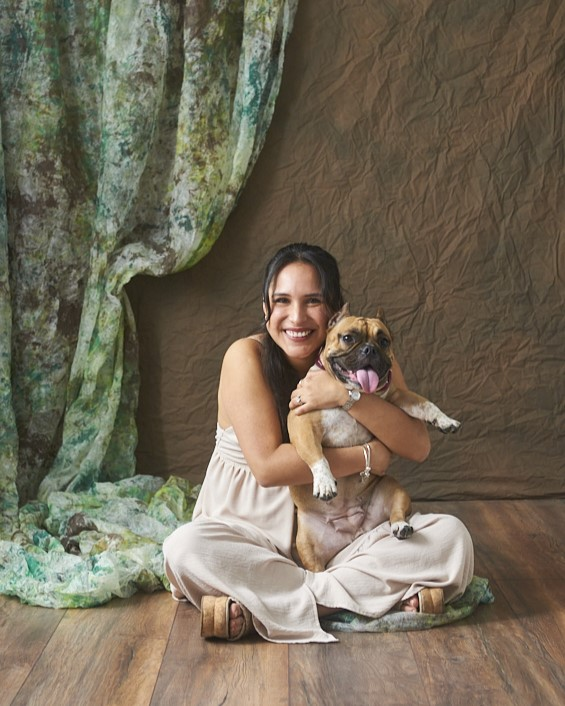
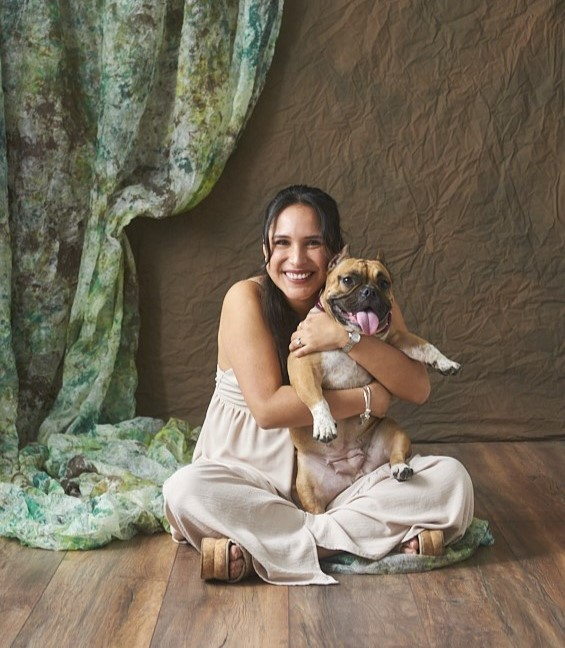
💄 UI:  Improve more ui

diff --git a/src/components/AboutMe/AboutMe.styles.tsx b/src/components/AboutMe/AboutMe.styles.tsx
@@ -1,5 +1,4 @@
-import styled from "@emotion/styled";
-import { css } from '@emotion/react';
+import styled from '@emotion/styled';
 
 // @Styles
 import { CardContainer } from '@styles/Styles';
@@ -11,7 +10,7 @@ export const AboutMeContainer = styled('div')`
   display: grid;
   gap: ${(props) => props.theme.spacing(2)};
   grid-template-columns: 1fr 1fr;
-  grid-template-rows: 220px 160px 220px 250px auto;
+  grid-template-rows: auto;
   grid-template-areas:
     'image1 text1'
     'image1 image2'
@@ -20,19 +19,6 @@ export const AboutMeContainer = styled('div')`
     'text4 text4';
 
   > div {
-    opacity: 0;
-    animation: ${(props) =>
-      css`
-        ${props.theme.animations.enterCards} 0.8s ease-in-out 0.2s forwards
-      `};
-    /* :hover {
-      animation: ${(props) =>
-      css`
-        ${props.theme.animations.hoverCard} 0.3s ease-in-out forwards, ${props
-          .theme.animations.enterCards} 0s;
-      `};
-      opacity: 1;
-    } */
     transition: transform 1s ease;
     :nth-of-type(1) {
       grid-area: image1;
@@ -55,47 +41,35 @@ export const AboutMeContainer = styled('div')`
     :nth-of-type(7) {
       grid-area: text4;
     }
-
-    /* :hover {
-      animation: ${(props) =>
-      css`
-        ${props.theme.animations.hoverCard} 0.3s ease-in-out forwards
-      `};
-    } */
   }
 
-  ${(props) =>
-    props.theme.breakpoints.between(Breakpoint.tablet, Breakpoint.laptopS)} {
-    grid-template-rows: 260px 80px 260px 340px auto;
-  }
-
-  ${(props) =>
-    props.theme.breakpoints.between(Breakpoint.tabletS, Breakpoint.tablet)} {
+  ${(props) => props.theme.breakpoints.down(Breakpoint.laptopS)} {
     grid-template-areas:
       'image1 text1'
-      'image1 image2'
       'text2 image2'
       'image3 text3'
       'text4 text4';
-    grid-template-rows: auto auto auto 300px auto;
   }
 
   ${(props) => props.theme.breakpoints.down(Breakpoint.tabletS)} {
-    grid-template-areas:
-      'text1 text2'
-      'image1 image2'
-      'image3 text3'
-      'text4 text4';
-    grid-template-rows: auto auto auto auto;
     gap: ${(props) => props.theme.spacing(1)};
   }
 `;
 
-export const AboutMeImg = styled('img')`
-  width: 100%;
+export const AboutMeImg = styled(CardContainer)<{ src: string }>`
+  background-image: ${(props) => `url(${props.src})`};
+  background-position: center;
+  background-size: cover;
   height: 100%;
-  object-fit: cover;
-  overflow-y: hidden;
+  min-height: 350px;
+  width: 100%;
+
+  ${(props) => props.theme.breakpoints.down(Breakpoint.laptopS)} {
+    min-height: 285px;
+  }
+  ${(props) => props.theme.breakpoints.down(Breakpoint.mobileL)} {
+    min-height: 220px;
+  }
 `;
 
 export const AboutMeCardContainer = styled(CardContainer)`
@@ -105,7 +79,6 @@ export const AboutMeCardContainer = styled(CardContainer)`
     padding: 0;
     width: 24px;
     height: 24px;
-    fill: ${(props) => props.theme.palette.accent};
   }
 `;
 

diff --git a/src/components/AboutMe/AboutMe.tsx b/src/components/AboutMe/AboutMe.tsx
@@ -3,11 +3,11 @@ import AboutMeCard from './AboutMeCard';
 import { CardContainer } from '@styles/Styles';
 
 // @Icons
-import { ReactIcon } from '@icons';
+import SVGIcon, { CodeIcon, GamingIcon, ReactIcon, StudyIcon } from '@icons';
 
 // @Images
-import DogPhoto from '@images/about-me-dog.jpg';
 import ArequipaPhoto from '@images/about-me-arequipa.jpg';
+import DogPhoto from '@images/about-me-dog.jpg';
 import IcaPhoto from '@images/about-me-ica.jpg';
 
 // @Styles
@@ -16,11 +16,9 @@ import { AboutMeContainer, AboutMeImg } from './AboutMe.styles';
 const AboutMe = () => {
   return (
     <AboutMeContainer>
-      <CardContainer noPadding>
-        <AboutMeImg src={DogPhoto} />
-      </CardContainer>
+      <AboutMeImg src={DogPhoto} />
       <AboutMeCard
-        icon={<ReactIcon />}
+        icon={<SVGIcon icon={ReactIcon} fill="accent" />}
         description={[
           'Experience: 5 years',
           'Libraries / frameworks: React, Angular',
@@ -28,24 +26,20 @@ const AboutMe = () => {
         ]}
         title="Front-end"
       />
-      <CardContainer noPadding>
-        <AboutMeImg src={IcaPhoto} />
-      </CardContainer>
+      <AboutMeImg src={IcaPhoto} />
       <AboutMeCard
-        icon={<ReactIcon />}
+        icon={<SVGIcon icon={CodeIcon} stroke="accent" />}
         description="Redux, React Query, GraphQL, Storybook, Material UI, Jest, React Testing Library, Github, Azure, Jira, SonarQube"
         title="Tech Stack"
       />
-      <CardContainer noPadding>
-        <AboutMeImg src={ArequipaPhoto} />
-      </CardContainer>
+      <AboutMeImg src={ArequipaPhoto} />
       <AboutMeCard
-        icon={<ReactIcon />}
+        icon={<SVGIcon icon={GamingIcon} stroke="accent" />}
         description="I enjoy bartending as a hobbie and gaming in my free time. I also like exploring new destinations within Peru and abroad. And let's not forget my dog – she's a big part of my life!"
         title="Interests"
       />
       <AboutMeCard
-        icon={<ReactIcon />}
+        icon={<SVGIcon icon={StudyIcon} fill="accent" stroke="background" />}
         description={[
           'I began my studies in mechanical engineering in 2014 but soon discovered my passion for programming, so I switched to software engineering in 2016. I quickly started learning the fundamentals of front-end and proceeded to master Angular and React.',
           'Currently, I’m mainly working with React and Typescript, and during my free time, I’m exploring the exciting world of animations and SVG transformations.',

diff --git a/src/common/Icons/index.tsx b/src/common/Icons/index.tsx
@@ -1,7 +1,46 @@
-export { default as SunIcon } from './sun-icon.svg?react';
-export { default as MoonIcon } from './moon-icon.svg?react';
-export { default as ReactIcon } from './react-icon.svg?react';
+export { default as CodeIcon } from './code-icon.svg?react';
+export { default as GamingIcon } from './gaming-icon.svg?react';
+export { default as GithubIcon } from './github-icon.svg?react';
 export { default as LinkedinIcon } from './linkedin-icon.svg?react';
 export { default as LinkIcon } from './link-icon.svg?react';
 export { default as MailIcon } from './mail-icon.svg?react';
-export { default as GithubIcon } from './github-icon.svg?react';
+export { default as MoonIcon } from './moon-icon.svg?react';
+export { default as ReactIcon } from './react-icon.svg?react';
+export { default as StudyIcon } from './study-icon.svg?react';
+export { default as SunIcon } from './sun-icon.svg?react';
+
+import styled from '@emotion/styled';
+import { PaletteType } from '@theme/Theme.types';
+
+const SVGIconWrapper = styled.div<{
+  fill?: keyof PaletteType;
+  size?: string;
+  stroke?: keyof PaletteType;
+}>`
+  height: ${({ size }) => size};
+  width: ${({ size }) => size};
+
+  svg {
+    * {
+      fill: ${({ fill, theme }) => fill && theme.palette[fill]};
+      stroke: ${({ stroke, theme }) => stroke && theme.palette[stroke]};
+    }
+  }
+`;
+
+type SVGIconProps = {
+  icon: React.FunctionComponent;
+  size?: string;
+  fill?: keyof PaletteType;
+  stroke?: keyof PaletteType;
+};
+
+const SVGIcon: React.FC<SVGIconProps> = ({ icon: Icon, ...rest }) => {
+  return (
+    <SVGIconWrapper {...rest}>
+      <Icon />
+    </SVGIconWrapper>
+  );
+};
+
+export default SVGIcon;

diff --git a/src/components/Projects/ProjectItem.tsx b/src/components/Projects/ProjectItem.tsx
@@ -19,23 +19,18 @@ type ProjectItemProps = {
   technologies: readonly string[];
   image: string;
   urls: readonly { name: string; url: string }[];
-  reverse?: boolean;
 };
 
 const ProjectItem = ({
   title,
   description,
   technologies,
-  reverse,
   image,
   urls,
 }: ProjectItemProps) => {
   return (
     <PortfolioLink to={urls[0].url} target="_blank">
-      <ProjectCard reverse={reverse} noPadding isInteractive>
-        <ProjectImageContainer>
-          <ProjectImage src={image} />
-        </ProjectImageContainer>
+      <ProjectCard noPadding isInteractive>
         <ProjectCardDescription>
           <Typography variant="title3">{title}</Typography>
           <Typography variant="body2" as="p">
@@ -52,6 +47,9 @@ const ProjectItem = ({
             ))}
           </PillContainer>
         </ProjectCardDescription>
+        <ProjectImageContainer>
+          <ProjectImage src={image} />
+        </ProjectImageContainer>
       </ProjectCard>
     </PortfolioLink>
   );

diff --git a/src/components/Projects/Projects.tsx b/src/components/Projects/Projects.tsx
@@ -35,13 +35,8 @@ const PROJECTS_LIST = [
 const Projects = () => {
   return (
     <ProjectsContainer>
-      {PROJECTS_LIST.map((project, idx) => (
-        <ProjectItem
-          key={project.order}
-          {...project}
-          reverse={idx % 2 === 0}
-          urls={project.urls}
-        />
+      {PROJECTS_LIST.map((project) => (
+        <ProjectItem key={project.order} {...project} urls={project.urls} />
       ))}
     </ProjectsContainer>
   );

diff --git a/src/components/Projects/Projects.styles.tsx b/src/components/Projects/Projects.styles.tsx
@@ -30,10 +30,9 @@ export const Pill = styled.div`
   }
 `;
 
-export const ProjectCard = styled(CardContainer)<{ reverse?: boolean }>`
-  flex-direction: ${({ reverse }) => (reverse ? 'row-reverse' : 'row')};
+export const ProjectCard = styled(CardContainer)`
   ${(props) => props.theme.breakpoints.down(Breakpoint.laptopS)} {
-    flex-direction: column;
+    flex-direction: column-reverse;
   }
 `;
 

diff --git a/src/components/Layout/Layout.styles.tsx b/src/components/Layout/Layout.styles.tsx
@@ -12,7 +12,7 @@ export const PortfolioTitle = styled('span')`
 export const MainLayout = styled('div')`
   display: flex;
   justify-content: center;
-  background-color: ${(props) => props.theme.palette.background};
+  background-color: ${({ theme }) => theme.palette.background};
   height: 100vh;
   width: 100vw;
   margin: 0;
